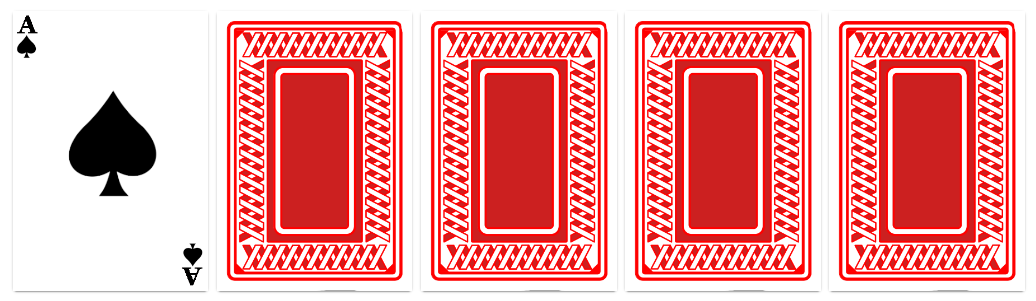
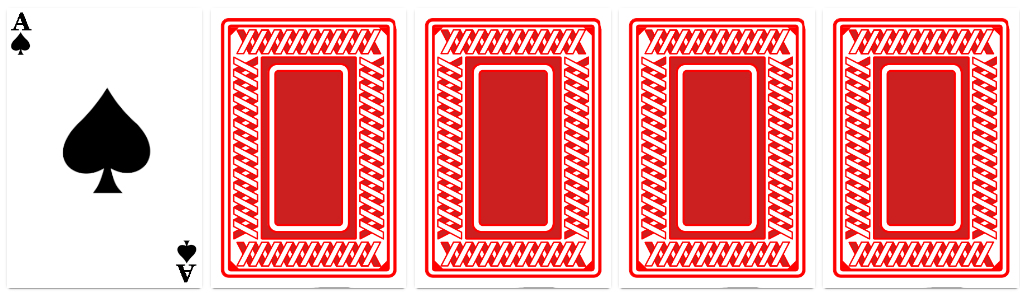
added pics

diff --git a/helpingHand/src/app/app.component.html b/helpingHand/src/app/app.component.html
@@ -157,7 +157,7 @@
                         <mat-card-header>
                             <mat-card-title>One Pair</mat-card-title>
                         </mat-card-header>
-                        <img mat-card-image src="../assets/highCard.PNG">
+                        <img mat-card-image src="../assets/onePair.PNG">
                         <mat-card-content>
                             <p>
                                 <br> One pair is simply two cards of the same value, such as having two kings in your hand.
@@ -177,7 +177,7 @@
                         <mat-card-header>
                             <mat-card-title>Two Pair</mat-card-title>
                         </mat-card-header>
-                        <img mat-card-image src="../assets/highCard.PNG">
+                        <img mat-card-image src="../assets/twoPair.PNG">
                         <mat-card-content>
                             <p>
                                 <br>Two pair is exactly what it says, two pairs, each being a different rank. For example, 8-8-5-5-3 would be two pairs.
@@ -197,7 +197,7 @@
                         <mat-card-header>
                             <mat-card-title>Three of Kind</mat-card-title>
                         </mat-card-header>
-                        <img mat-card-image src="../assets/highCard.PNG">
+                        <img mat-card-image src="../assets/threeOfAKind.PNG">
                         <mat-card-content>
                             <p>
                                 <br>Just like its four card counterpart, a 3 of a kind consists of three cards of the same rank – for instance, your five-card hand contains 8-8-8-5-2.
@@ -217,7 +217,7 @@
                         <mat-card-header>
                             <mat-card-title>Straight</mat-card-title>
                         </mat-card-header>
-                        <img mat-card-image src="../assets/highCard.PNG">
+                        <img mat-card-image src="../assets/straight.PNG">
                         <mat-card-content>
                             <p>
                                 <br>If you have a straight, you’ll hold five consecutive cards which are not all the same suit. For example, 8-7-6-5-4 in different suits. The highest possible straight sequence is A-K-Q-J-10.
@@ -238,7 +238,7 @@
                         <mat-card-header>
                             <mat-card-title>Flush</mat-card-title>
                         </mat-card-header>
-                        <img mat-card-image src="../assets/highCard.PNG">
+                        <img mat-card-image src="../assets/flush.PNG">
                         <mat-card-content>
                             <p>
                                 <br>A flush in poker consists of five cards which are all part of the same suit, but not in a consecutive order, such as A-K-8-7-3 in hearts.<br><br><br>
@@ -257,7 +257,7 @@
                         <mat-card-header>
                             <mat-card-title>Full House</mat-card-title>
                         </mat-card-header>
-                        <img mat-card-image src="../assets/highCard.PNG">
+                        <img mat-card-image src="../assets/fullHouse.PNG">
                         <mat-card-content>
                             <p>
                                 <br>A full house poker hand is made up of a matching three of a kind together with a pair of a different value. For example, 10-10-10-8-8 – which is 
@@ -279,7 +279,7 @@
                         <mat-card-header>
                             <mat-card-title>Four of a Kind</mat-card-title>
                         </mat-card-header>
-                        <img mat-card-image src="../assets/highCard.PNG">
+                        <img mat-card-image src="../assets/fourOfAKind.PNG">
                         <mat-card-content>
                             <p>
                                 <br>A four of a kind in poker is simply four cards of the same value. So if you end up with 7-7-7-7-4 in your five-card hand, congratulations, you’ve got ‘quads’!
@@ -300,7 +300,7 @@
                         <mat-card-header>
                             <mat-card-title>Straight Flush</mat-card-title>
                         </mat-card-header>
-                        <img mat-card-image src="../assets/highCard.PNG">
+                        <img mat-card-image src="../assets/straightFlush.PNG">
                         <mat-card-content>
                             <p>
                                 <br>A straight flush is made up of five consecutive cards, all in the same suit. For example, 9-8-7-6-5 all in diamonds.
@@ -320,7 +320,7 @@
                         <mat-card-header>
                             <mat-card-title>Royal Flush</mat-card-title>
                         </mat-card-header>
-                        <img mat-card-image src="../assets/highCard.PNG">
+                        <img mat-card-image src="../assets/royalFlush.PNG">
                         <mat-card-content>
                             <p>
                                 <br>Sitting at the very top of the poker hierarchy, you’ll find the royal flush.
